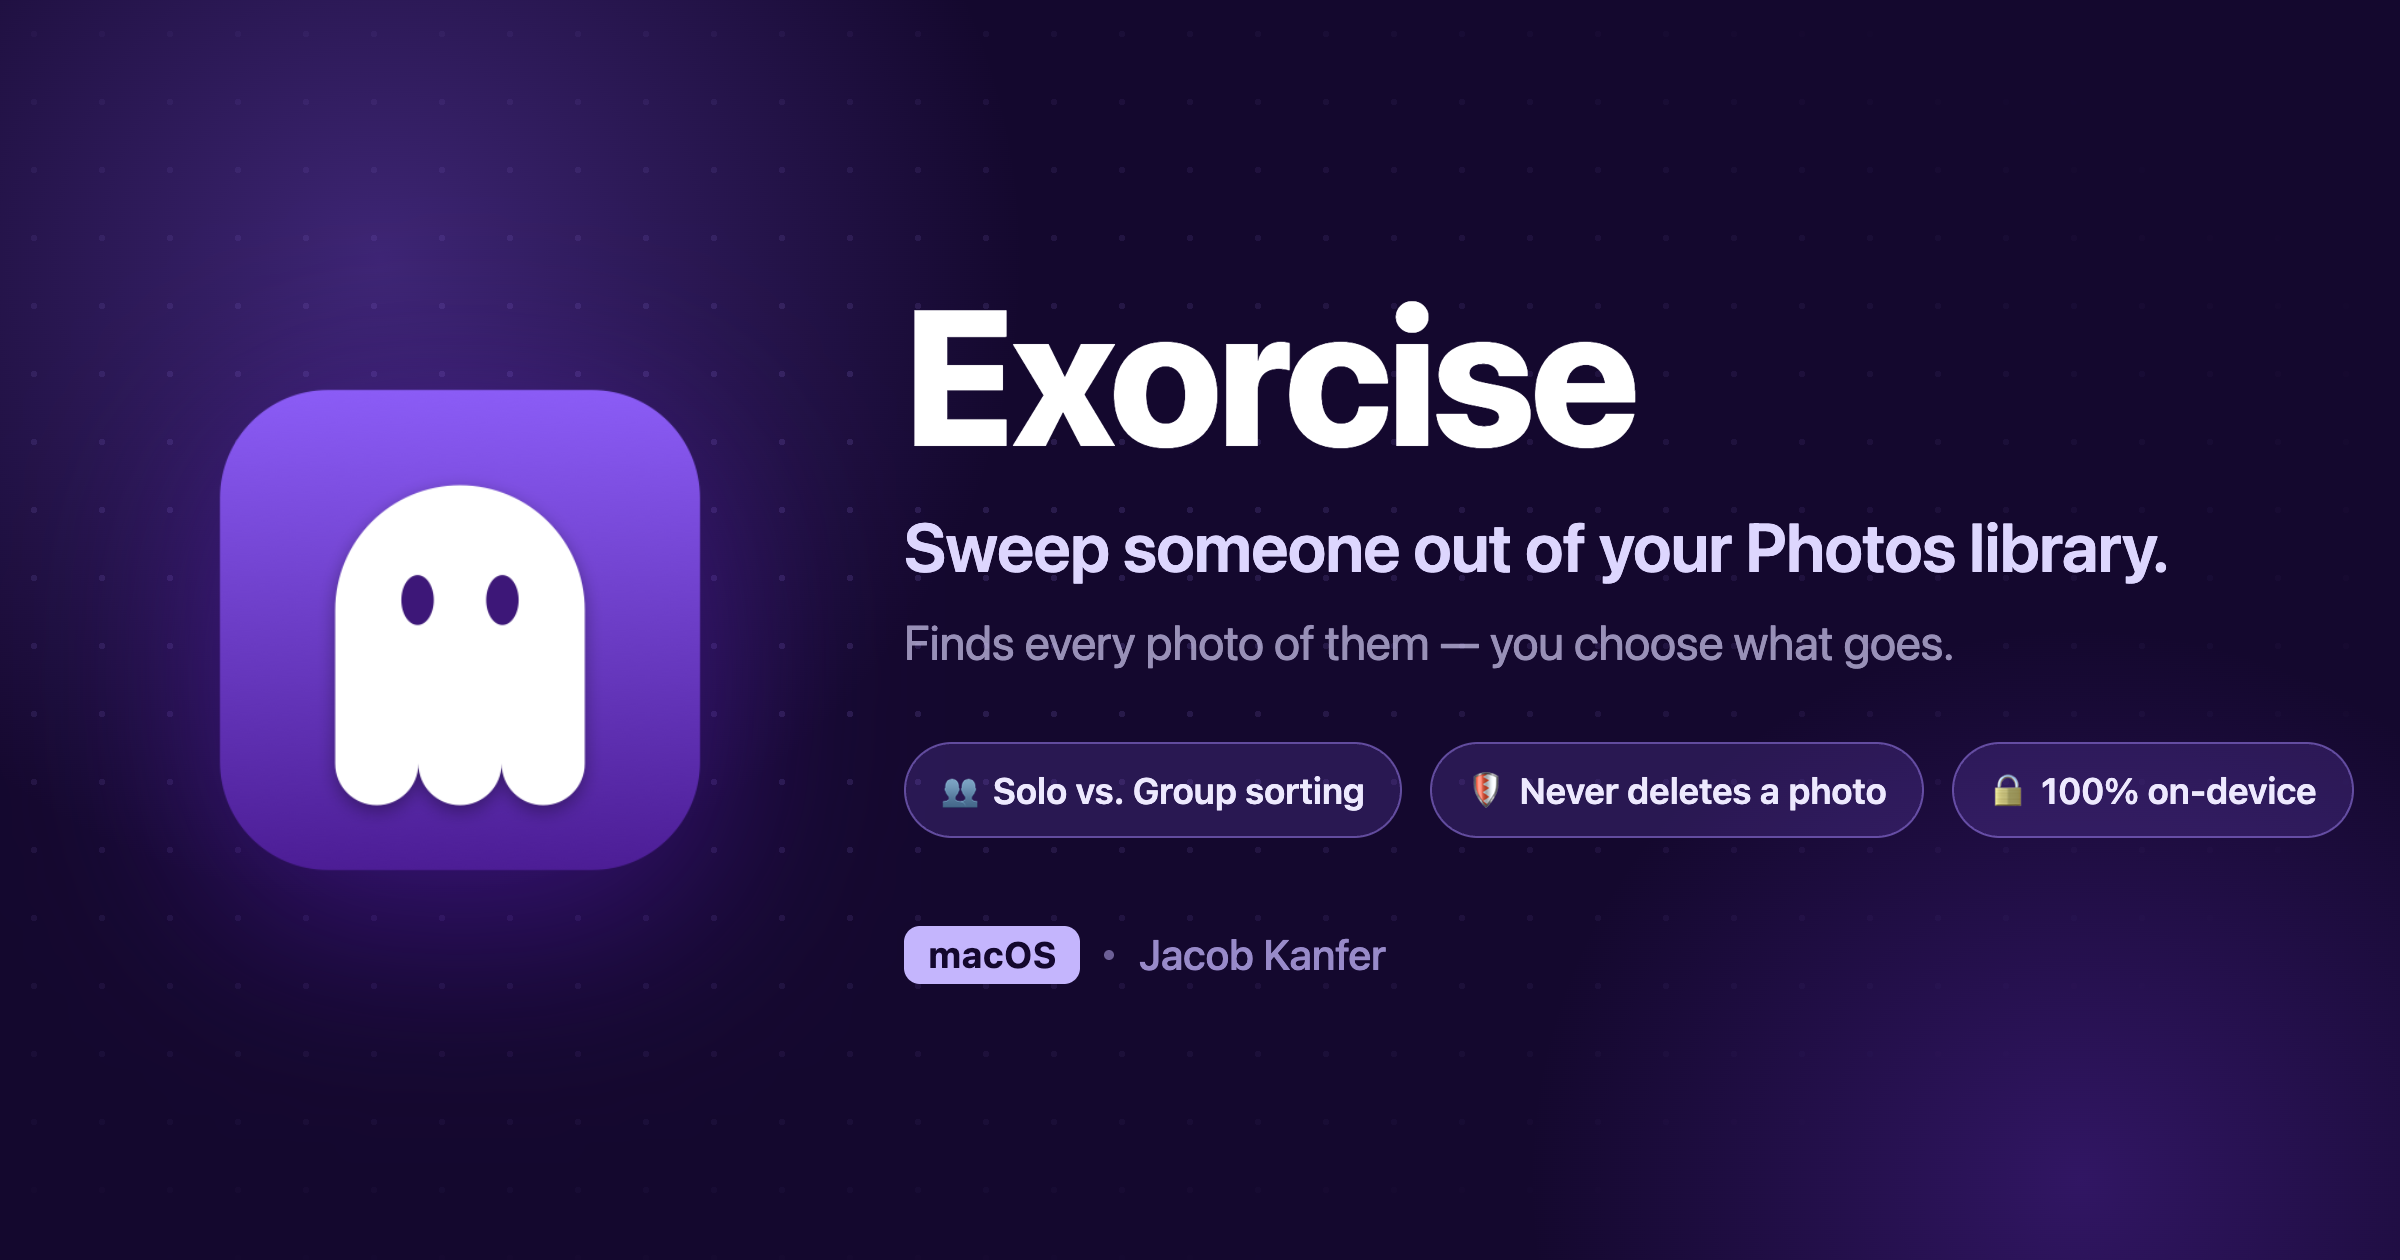
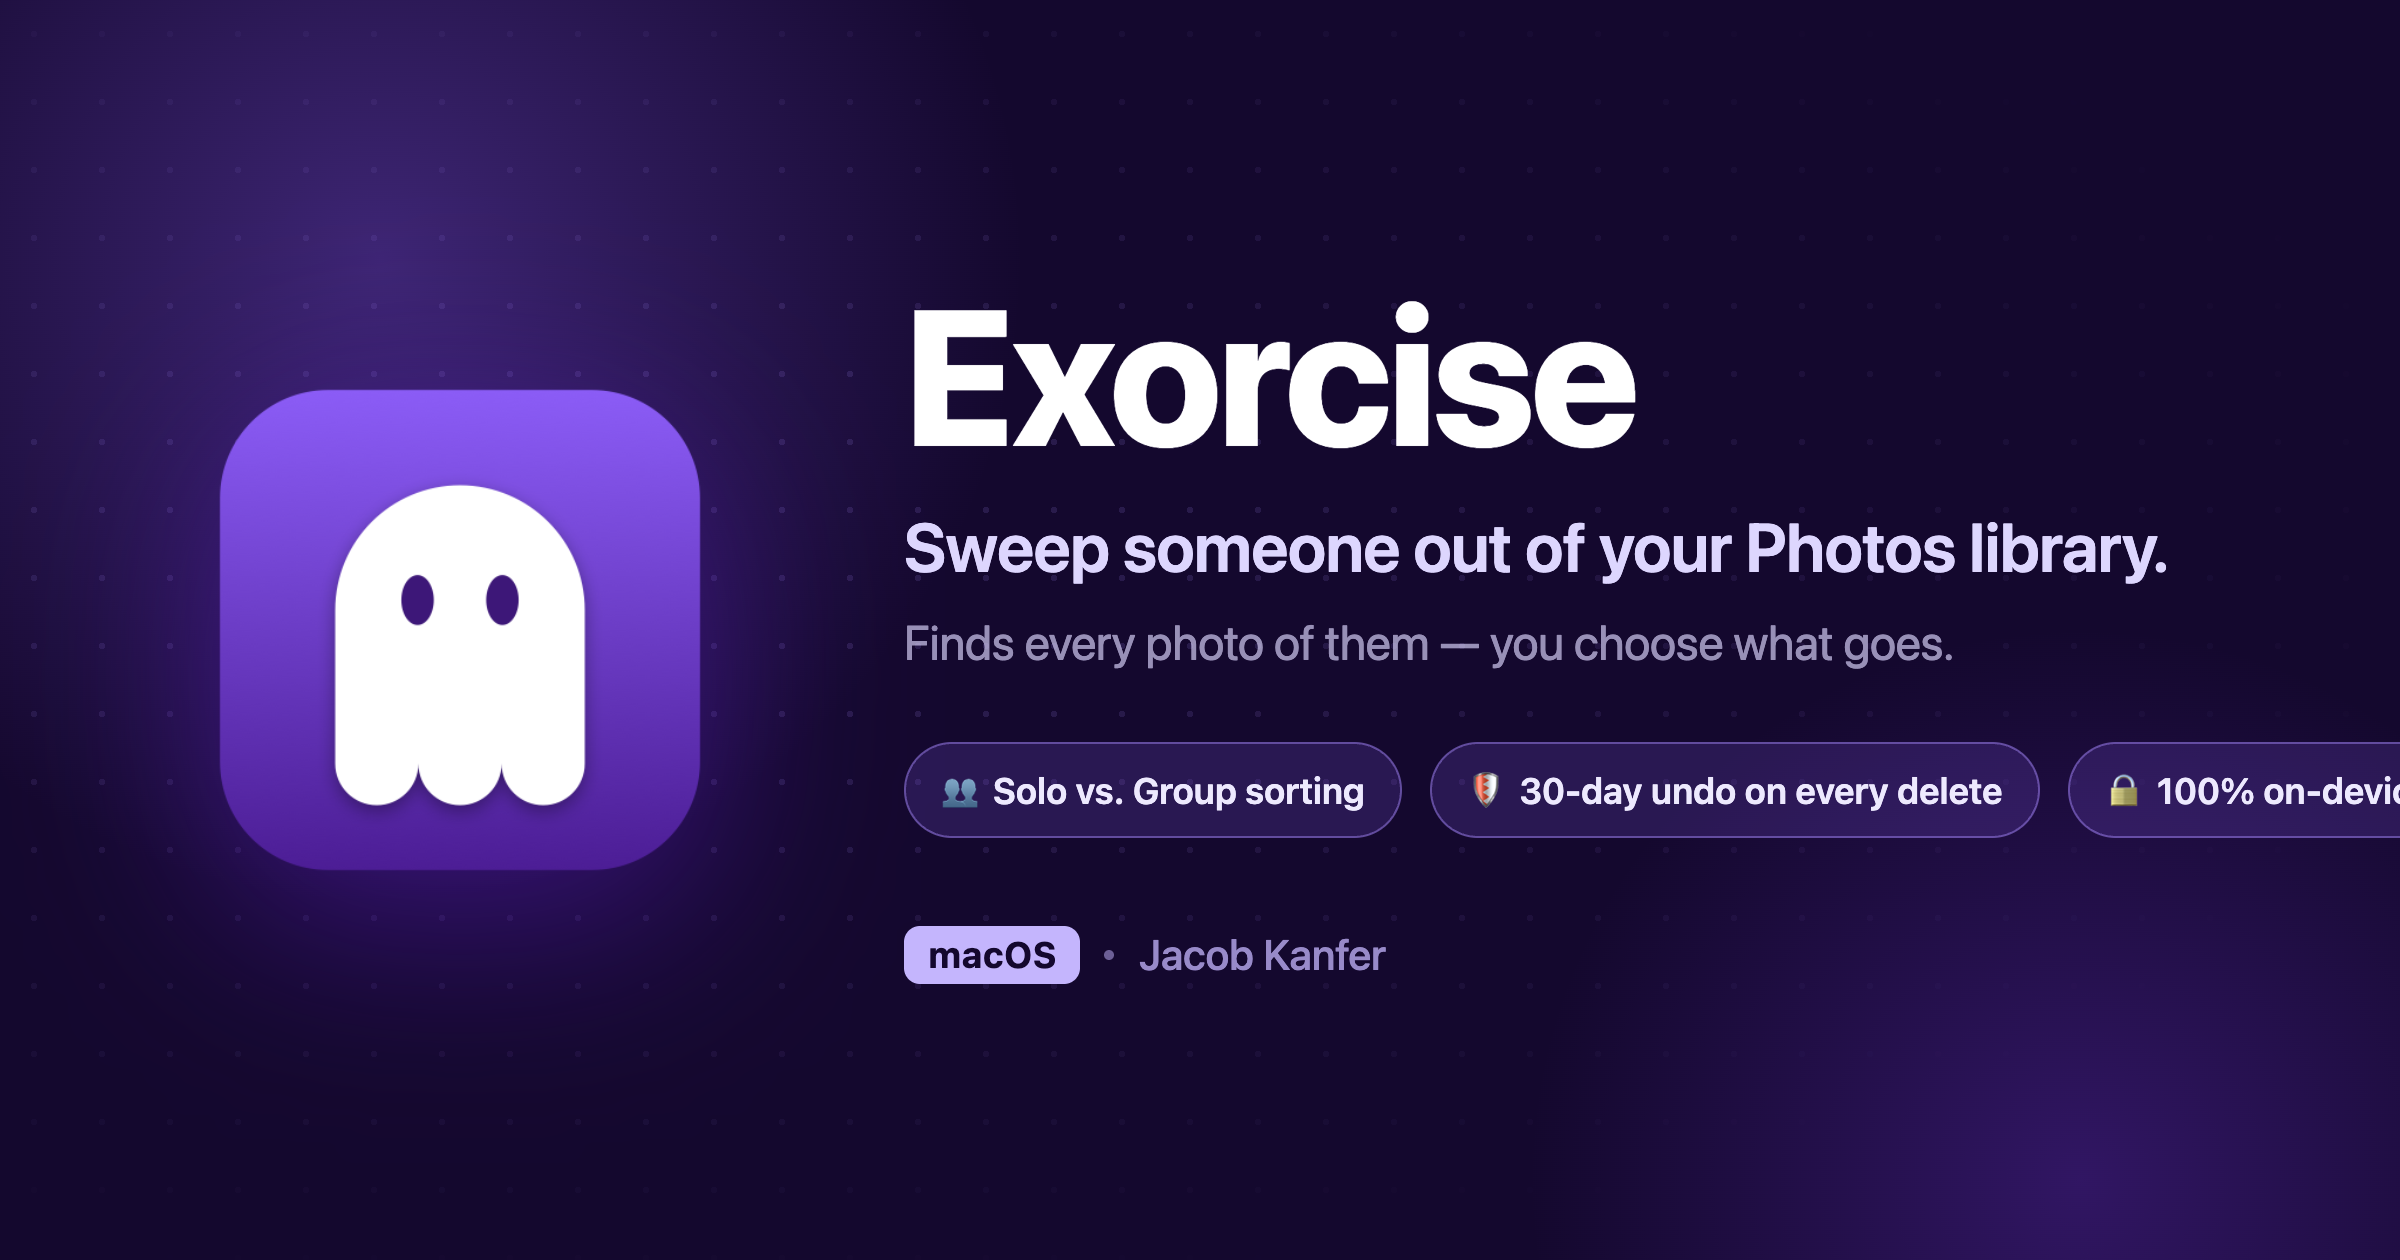
chore: update private repos snapshot

Changed region(s): [[0.625, 0.5881, 1.0, 0.681]]

diff --git a/public/data/portfolio/Exorcise/qa.md b/public/data/portfolio/Exorcise/qa.md
@@ -2,11 +2,11 @@
 
 ## Overview
 
-Exorcise is a native macOS app for removing a specific person from your Apple Photos library without the app ever deleting a photo. It finds every photo of a chosen person, classifies each as "solo" (just them) or "group" (them plus other people you know), and files them into two clearly named albums for you to review and bulk-delete in Photos. The interesting technical core: Apple offers no public API for Photos' People data, so Exorcise reads it directly from the Photos library's own SQLite database — with runtime schema introspection so it survives Photos version differences.
+Exorcise is a native macOS app for removing a specific person from your Apple Photos library, with the irreversible step guarded by the OS itself. It finds every photo of a chosen person, classifies each as "solo" (just them) or "group" (them plus other people you know), and — after you review and macOS confirms — moves them to Photos' Recently Deleted, recoverable for 30 days. A secondary action files them into review albums instead of deleting. The interesting technical core: Apple offers no public API for Photos' People data, so Exorcise reads it directly from the Photos library's own SQLite database — with runtime schema introspection so it survives Photos version differences.
 
 ## Problem Solved
 
-After a breakup, a falling-out, or a loss, people often want photos of one specific person out of their library — but a 20,000-photo library makes that a miserable manual slog, and group photos (which you may want to keep) are mixed in with solo shots (which you may not). Exorcise turns that into a ten-minute review instead of an afternoon of scrolling, while deliberately refusing to be the thing that deletes anything.
+After a breakup, a falling-out, or a loss, people often want photos of one specific person out of their library — but a 20,000-photo library makes that a miserable manual slog, and group photos (which you may want to keep) are mixed in with solo shots (which you may not). Exorcise turns that into a ten-minute review instead of an afternoon of scrolling, while keeping every deletion behind Apple's own confirmation dialog and 30-day recovery window.
 
 ## Target Users
 
@@ -22,10 +22,10 @@ A face grid of everyone Photos has named, searchable, with photo counts — pick
 Every photo of the target is classified by whether other recognized people are also in it, because "photo of just my ex" and "photo of my ex at my sister's wedding" deserve different fates. Pets are deliberately excluded from "other people."
 
 ### Review before anything happens
-A two-tab grid with everything selected by default, per-tab Select All/Deselect All, live counts, and click-to-preview at full quality (fetching from iCloud if needed). The app states plainly that selected photos get *filed for review*, not deleted.
+A two-tab grid with everything selected by default, per-tab Select All/Deselect All, live counts, and click-to-preview at full quality (fetching from iCloud if needed). The app states plainly what will happen to selected photos before anything does.
 
-### Non-destructive output
-Two albums — `Exorcise - [Name] (Solo)` and `(Group)` — created or appended with deduplication, and the completion screen reports exactly how many photos were actually added.
+### Recoverable deletion, optional albums
+Confirmed deletes go to Photos' Recently Deleted (30-day undo) behind a system dialog that lists every photo. Prefer to decide later? A secondary action files photos into `Exorcise - [Name] (Solo)` / `(Group)` albums instead — created or appended with deduplication, with the completion screen reporting exactly what happened.
 
 ## Technical Highlights
 
@@ -38,6 +38,9 @@ Scans run in a detached task across multi-second PhotoKit enumerations. A naive 
 ### Classification as a pure function
 Solo/group classification is a dictionary lookup over a precomputed reverse index (photo UUID → count of recognized people), implemented in `ScanClassifier.swift` with no PhotoKit dependency, so the core logic is exhaustively unit-testable and the scan itself is near-instant.
 
+### Thumbnails that always show the right face
+A person's newest photo is often a group shot, and "crop the largest face" happily frames a bystander. The fix reads the face rectangle Photos records for that exact person in that exact photo — but the coordinate convention is undocumented, so `--face-probe` first compared the recorded positions against Vision detections across portrait, landscape, and mirrored photos (agreement within ±0.005: upright image, bottom-left origin). `FaceCropper.swift` also filters Photos' zero-geometry sentinel rows (which would crop a corner sliver), redraws crops into standalone bitmaps so grid cells don't pin full-resolution decodes, and keeps Vision largest-face detection as the fallback.
+
 ### A self-driving end-to-end test
 `--autotest` runs the entire real pipeline — scan, classify, create albums in the actual library, verify contents through PhotoKit, then delete only the albums it created (and refuses to run at all if same-named albums already exist). It turns "does the whole thing actually work on a real 20k-photo library" into a one-command check with a written pass/fail report.
 
@@ -49,11 +52,11 @@ Solo/group classification is a dictionary lookup over a precomputed reverse inde
 - **Choice**: Read the database on macOS
 - **Why**: I measured the Vision alternative before rejecting it — sampling single-person photos with known identities as ground truth, Vision's generic image embeddings scored 66.7% nearest-neighbor identity accuracy (and an early, naively sampled version of the same test scored 82.8%, a reminder that burst photos can flatter a similarity metric). One wrong face in three is unshippable for this product; the database read keeps Photos' own accuracy. The measurement also settled the iOS question: without file access to the database, iOS needs a real face-embedding model, so the iOS port is parked.
 
-### Albums as the only output
+### OS-guarded deletion with an album escape hatch
 - **Constraint**: The product exists to enable deletion, the one irreversible act
 - **Options**: Delete photos directly with confirmation; move to a staging area; create albums and let Photos own deletion
-- **Choice**: Albums only — the app has no deletion code path for photos at all
-- **Why**: A bug in an app that deletes photos is catastrophic; a bug in an app that makes albums is an inconvenience. It also means re-running is safe and idempotent (append + dedupe).
+- **Choice**: Direct deletion behind the mandatory macOS confirmation and Recently Deleted's 30-day window, with albums as the no-deletion alternative
+- **Why**: A bug in an app that deletes photos silently is catastrophic — so the app never deletes silently. PhotoKit's delete request forces a system confirmation listing the photos, and everything lands in Recently Deleted with a 30-day undo; the album path remains for anyone who wants zero deletion. Re-running either path is safe and idempotent.
 
 ### Reported counts reflect reality, not intent
 - **Constraint**: The library can change between scan and filing (photos deleted, albums synced)
@@ -68,8 +71,8 @@ Solo/group classification is a dictionary lookup over a precomputed reverse inde
 
 ## Frequently Asked Questions
 
-### Does Exorcise ever delete photos?
-No — it has no code path that deletes a photo. It creates two albums and tells you their names; deletion happens in Photos, by you.
+### Does Exorcise delete photos immediately?
+Only after two safeguards: macOS shows its own confirmation dialog listing exactly which photos will go, and confirmed photos land in Photos' Recently Deleted, where they're recoverable for 30 days. If you'd rather not delete at all, the "File into Albums" action just organizes them for later review.
 
 ### Why does it need to read the Photos library database directly?
 Because Apple provides no API for the People that Photos recognizes. The app reads a temporary copy of the library's database (never the live files), and only with the sandbox's read-only Pictures access. Nothing is uploaded anywhere; the app has no network access at all.

diff --git a/public/data/portfolio/Exorcise/architecture.md b/public/data/portfolio/Exorcise/architecture.md
@@ -13,9 +13,10 @@ flowchart TD
     CV[ContentView\nlinear state machine] --> Picker & Scanning & Results & Done
     Picker & Scanning & Results --> PM[PhotosManager\n@MainActor @Observable]
     PM --> PDB[PeopleDatabase\nSQLite reader]
-    PM --> PK[PhotoKit\nassets · thumbnails · albums]
+    PM --> PK[PhotoKit\nassets · thumbnails · albums · deletes]
     PDB --> Lib[(Photos.sqlite\ntemp copy)]
     PM --> SC[ScanClassifier\npure function]
+    Picker --> TL[ThumbnailLoader\nAsyncStream over PhotoKit] --> FC[FaceCropper\nDB-located face crops]
 ```
 
 ## Component Descriptions
@@ -40,6 +41,16 @@ flowchart TD
 - **Location**: `Exorcise/Services/ScanClassifier.swift`
 - **Key responsibilities**: Deterministic, fully unit-tested classification with no PhotoKit dependency
 
+### ThumbnailLoader
+- **Purpose**: Streams progressive image deliveries (instant local preview, then full quality) with cancellation
+- **Location**: `Exorcise/Services/ThumbnailLoader.swift`
+- **Key responsibilities**: Wraps PhotoKit's opportunistic delivery in an `AsyncStream`; guarantees termination even for iCloud-offloaded originals under local-only requests; cancels the underlying request when a grid cell scrolls away
+
+### FaceCropper
+- **Purpose**: Person circles that always show the person
+- **Location**: `Exorcise/Services/FaceCropper.swift`
+- **Key responsibilities**: Crops thumbnails at the face position the Photos database records for that person (empirically verified coordinate convention), filters zero-geometry sentinel rows, falls back to Vision largest-face detection, and redraws crops into standalone bitmaps so full-size decodes aren't retained
+
 ### Views & Components
 - **Purpose**: Thin SwiftUI screens reading manager state directly
 - **Location**: `Exorcise/Views/`, `Exorcise/Components/`
@@ -50,16 +61,16 @@ flowchart TD
 1. On launch the app requests Photos authorization, then loads people and the classification index off the main thread (spinner until done)
 2. The user picks a person; the scan classifies each of their photos by counting distinct recognized people per photo (solo = 1, group = >1)
 3. The review screen shows Solo/Group tabs, all photos selected by default; the user deselects keepers
-4. Exorcise creates or appends to the two albums, deduplicating against existing contents, and reports the counts actually added
-5. The done screen names the albums; deletion happens in Photos, on the user's schedule
+4. On confirm, PhotoKit's delete request triggers the macOS confirmation dialog, and confirmed photos move to Photos' Recently Deleted (30-day recovery); the alternate action creates or appends to the two review albums with deduplication instead
+5. The done screen reports what actually happened — photos moved (with the recovery path spelled out) or albums created with actual counts
 
 ## External Integrations
 
 | Service | Purpose | Notes |
 |---------|---------|-------|
-| PhotoKit | Asset fetch, thumbnails, album creation | Sandboxed, `.readWrite` authorization; albums only ever created or appended, never photos deleted |
+| PhotoKit | Asset fetch, thumbnails, album creation, deletion | Sandboxed, `.readWrite` authorization; deletes always pass the OS confirmation dialog and land in Recently Deleted |
 | Photos library database | Source of People data | Read-only intent via a temp copy; schema introspected at runtime; requires read-only Pictures entitlement |
-| Vision framework | Feasibility measurement only (`--vision-spike`) | Not part of the user-facing product |
+| Vision framework | Thumbnail face-crop fallback; measurement modes (`--vision-spike`, `--face-probe`) | Detection runs on a GCD queue — concurrent blocking calls on the Swift cooperative pool can starve it |
 
 ## Key Architectural Decisions
 
@@ -73,10 +84,15 @@ flowchart TD
 - **Decision**: Every scan captures a generation number; all main-actor state writes are guarded on it, and cancellation bumps it
 - **Rationale**: Simpler and more robust than task-identity comparison or actor-serializing the scans; a stale task's writes become no-ops regardless of where it was interrupted
 
-### Non-destructive by construction
-- **Context**: The app's whole domain is emotionally loaded bulk deletion
-- **Decision**: The app can only create or append to albums; deletion stays in Photos
-- **Rationale**: Removes the worst failure mode entirely, simplifies the permission story, and keeps the user in control of the irreversible step. Reported counts are what was actually added, not what was selected, so stale scans can't overstate results
+### OS-mediated deletion
+- **Context**: The app's whole domain is emotionally loaded bulk deletion — the worst possible place for a silent bug
+- **Decision**: Deletion goes through PhotoKit's asset-delete request, which forces a macOS confirmation dialog enumerating the exact photos and lands everything in Photos' Recently Deleted (30-day recovery); an alternate action files photos into review albums with no deletion at all
+- **Rationale**: The irreversible step is guarded by the OS, not by app code — the app cannot delete anything the user hasn't seen listed in a system dialog, and even a confirmed delete is recoverable for a month. Reported counts reflect what actually happened, not what was selected
+
+### Face locations from the database, verified by measurement
+- **Context**: Person-circle thumbnails must show the person — but the newest photo is often a group shot, and any largest-face heuristic can crop a bystander
+- **Decision**: Crop at the face rectangle Photos records per (person, photo) in `ZDETECTEDFACE`, after an in-app probe compared those coordinates against Vision detections across photo orientations to establish the convention (normalized to the upright image, bottom-left origin)
+- **Rationale**: Correct by construction beats heuristics that can be argued about — the recorded rectangle *is* the person. The undocumented format's risks are contained the same way as elsewhere: measure before trusting, filter invalid sentinel rows, and keep a Vision fallback for faces without geometry
 
 ### Value-type snapshot model
 - **Context**: Strict Swift concurrency with PhotoKit types that aren't Sendable

diff --git a/public/data/portfolio/Exorcise/stack.md b/public/data/portfolio/Exorcise/stack.md
@@ -26,7 +26,7 @@
 
 ## Development Tools
 
-- **Testing**: Swift Testing (`@Test`/`#expect`) for the pure logic; a flag-gated in-app self-test (`--autotest`) exercises the full pipeline against a real library and cleans up after itself
+- **Testing**: Swift Testing (`@Test`/`#expect`) for the pure logic; flag-gated in-app modes exercise the real library — `--autotest` runs the full album pipeline end-to-end and cleans up after itself (never the delete path), `--face-probe` verifies the face-geometry coordinate convention against Vision, `--vision-spike` benchmarks on-device face-identity accuracy
 - **Icon pipeline**: `scripts/generate-icon.swift` draws the app icon with CoreGraphics and emits the full `.appiconset`
 
 ## Key Dependencies
